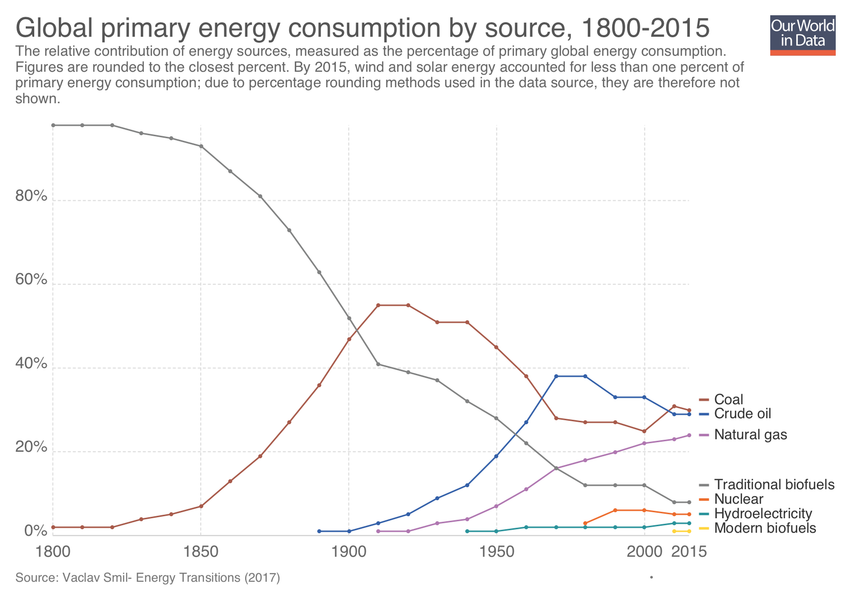
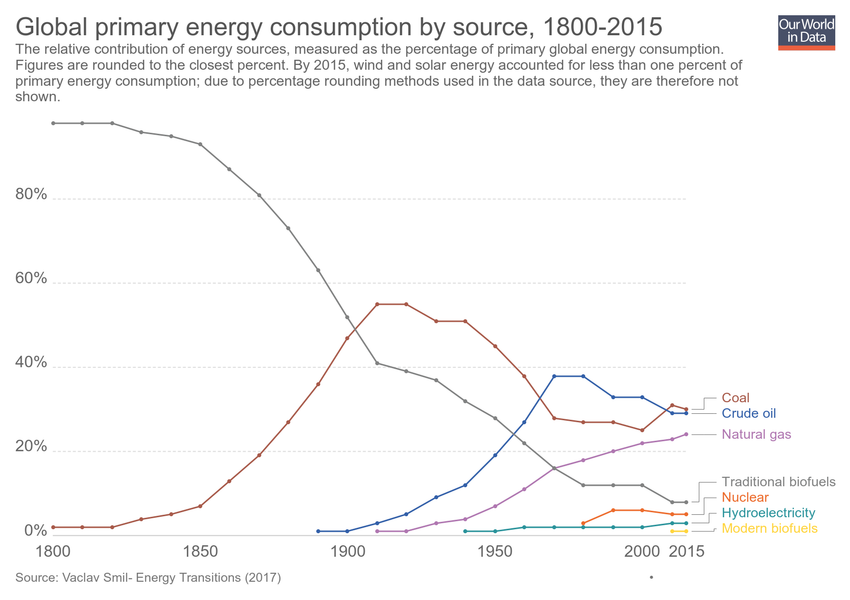
Updating chart global-primary-energy-consumption-by-source-1800-2015

diff --git a/grapher/global-primary-energy-consumption-by-source-1800-2015.html b/grapher/global-primary-energy-consumption-by-source-1800-2015.html
@@ -1,4 +1,4 @@
-<!doctype html><html><head><meta name="viewport" content="width=device-width, initial-scale=1" /><title>Global primary energy consumption by source, 1800-2015 - Our World in Data</title><meta name="description" content="The relative contribution of energy sources, measured as the percentage of primary global energy consumption. Figures are rounded to the closest percent. By 2015, wind and solar energy accounted for less than one percent of primary energy consumption; due to percentage rounding methods used in the data source, they are therefore not shown." /><link rel="canonical" href="https://ourworldindata.org/grapher/global-primary-energy-consumption-by-source-1800-2015" /><meta property="fb:app_id" content="1149943818390250" /><meta property="og:url" content="https://ourworldindata.org/grapher/global-primary-energy-consumption-by-source-1800-2015" /><meta property="og:title" content="Global primary energy consumption by source, 1800-2015" /><meta property="og:description" content="The relative contribution of energy sources, measured as the percentage of primary global energy consumption. Figures are rounded to the closest percent. By 2015, wind and solar energy accounted for less than one percent of primary energy consumption; due to percentage rounding methods used in the data source, they are therefore not shown." /><meta property="og:image" content="https://ourworldindata.org/grapher/exports/global-primary-energy-consumption-by-source-1800-2015.png?v=1" /><meta property="og:image:width" content="850" /><meta property="og:image:height" content="600" /><meta property="og:site_name" content="Our World in Data" /><meta name="twitter:card" content="summary_large_image" /><meta name="twitter:site" content="@OurWorldInData" /><meta name="twitter:creator" content="@OurWorldInData" /><meta name="twitter:title" content="Global primary energy consumption by source, 1800-2015" /><meta name="twitter:description" content="The relative contribution of energy sources, measured as the percentage of primary global energy consumption. Figures are rounded to the closest percent. By 2015, wind and solar energy accounted for less than one percent of primary energy consumption; due to percentage rounding methods used in the data source, they are therefore not shown." /><meta name="twitter:image" content="https://ourworldindata.org/grapher/exports/global-primary-energy-consumption-by-source-1800-2015.png?v=1" /><style>
+<!doctype html><html><head><meta name="viewport" content="width=device-width, initial-scale=1" /><title>Global primary energy consumption by source, 1800-2015 - Our World in Data</title><meta name="description" content="The relative contribution of energy sources, measured as the percentage of primary global energy consumption. Figures are rounded to the closest percent. By 2015, wind and solar energy accounted for less than one percent of primary energy consumption; due to percentage rounding methods used in the data source, they are therefore not shown." /><link rel="canonical" href="https://ourworldindata.org/grapher/global-primary-energy-consumption-by-source-1800-2015" /><meta property="fb:app_id" content="1149943818390250" /><meta property="og:url" content="https://ourworldindata.org/grapher/global-primary-energy-consumption-by-source-1800-2015" /><meta property="og:title" content="Global primary energy consumption by source, 1800-2015" /><meta property="og:description" content="The relative contribution of energy sources, measured as the percentage of primary global energy consumption. Figures are rounded to the closest percent. By 2015, wind and solar energy accounted for less than one percent of primary energy consumption; due to percentage rounding methods used in the data source, they are therefore not shown." /><meta property="og:image" content="https://ourworldindata.org/grapher/exports/global-primary-energy-consumption-by-source-1800-2015.png?v=2" /><meta property="og:image:width" content="850" /><meta property="og:image:height" content="600" /><meta property="og:site_name" content="Our World in Data" /><meta name="twitter:card" content="summary_large_image" /><meta name="twitter:site" content="@OurWorldInData" /><meta name="twitter:creator" content="@OurWorldInData" /><meta name="twitter:title" content="Global primary energy consumption by source, 1800-2015" /><meta name="twitter:description" content="The relative contribution of energy sources, measured as the percentage of primary global energy consumption. Figures are rounded to the closest percent. By 2015, wind and solar energy accounted for less than one percent of primary energy consumption; due to percentage rounding methods used in the data source, they are therefore not shown." /><meta name="twitter:image" content="https://ourworldindata.org/grapher/exports/global-primary-energy-consumption-by-source-1800-2015.png?v=2" /><style>
         html, body {
             height: 100%;
             margin: 0;
@@ -20,8 +20,8 @@
         }
     </style><noscript><style>
                     figure { display: none !important; }
-                </style></noscript><link rel="stylesheet" href="https://ourworldindata.org/grapher/assets/commons.bundle.ffce8fc1a6aa7e5a53c7.css" /><link rel="preload" href="/grapher/data/variables/2022+2023+2024+2025+2026+2027+2028+2029.json?v=1" as="fetch" crossorigin /></head><body class="singleChart"><figure data-grapher-src="/grapher/global-primary-energy-consumption-by-source-1800-2015"></figure><noscript id="fallback"><img src="/grapher/exports/global-primary-energy-consumption-by-source-1800-2015.svg" /><p>Interactive visualization requires JavaScript</p></noscript><script src="https://cdn.polyfill.io/v2/polyfill.min.js?features=es6,fetch"></script><script src="https://ourworldindata.org/grapher/assets/commons.bundle.ffce8fc1a6aa7e5a53c7.js"></script><script src="https://ourworldindata.org/grapher/assets/charts.bundle.dcf65b68eddaba4c6a58.js"></script><script>
-        var jsonConfig = {"id":695,"map":{"projection":"World","targetYear":1980,"variableId":2022,"timeTolerance":1,"legendStepSize":20,"baseColorScheme":"BuGn","colorSchemeInvert":false,"colorSchemeLabels":[],"colorSchemeValues":[],"defaultProjection":"World","legendDescription":"","customColorsActive":false,"customNumericColors":[],"customCategoryColors":{},"customCategoryLabels":{},"customHiddenCategories":{}},"tab":"chart","note":"","slug":"global-primary-energy-consumption-by-source-1800-2015","type":"LineChart","title":"Global primary energy consumption by source, 1800-2015","xAxis":{"scaleType":"linear"},"yAxis":{"min":0,"suffix":"%","scaleType":"linear","labelDistance":-10},"version":1,"subtitle":"The relative contribution of energy sources, measured as the percentage of primary global energy consumption. Figures are rounded to the closest percent. By 2015, wind and solar energy accounted for less than one percent of primary energy consumption; due to percentage rounding methods used in the data source, they are therefore not shown.","hasMapTab":false,"originUrl":"","stackMode":null,"dimensions":[{"id":10935,"order":0,"chartId":695,"display":{"name":"Coal","unit":"%","tolerance":5,"isProjection":false},"property":"y","targetYear":null,"variableId":2022},{"id":10936,"order":1,"chartId":695,"display":{"name":"Crude oil","unit":"%","tolerance":5,"isProjection":false},"property":"y","targetYear":null,"variableId":2023},{"id":10937,"order":2,"chartId":695,"display":{"name":"Natural gas","unit":"%","tolerance":5,"isProjection":false},"property":"y","targetYear":null,"variableId":2024},{"id":10938,"order":3,"chartId":695,"display":{"name":"Hydroelectricity","unit":"%","tolerance":5,"isProjection":false},"property":"y","targetYear":null,"variableId":2025},{"id":10939,"order":4,"chartId":695,"display":{"name":"Nuclear","unit":"%","tolerance":5,"isProjection":false},"property":"y","targetYear":null,"variableId":2026},{"id":10940,"order":5,"chartId":695,"display":{"name":"Wind and solar","unit":"%","tolerance":5,"isProjection":false},"property":"y","targetYear":null,"variableId":2027},{"id":10941,"order":6,"chartId":695,"display":{"name":"Modern biofuels","unit":"%","tolerance":5,"isProjection":false},"property":"y","targetYear":null,"variableId":2028},{"id":10942,"order":7,"chartId":695,"display":{"name":"Traditional biofuels","unit":"%","tolerance":5,"isProjection":false},"property":"y","targetYear":null,"variableId":2029}],"entityType":"country","hideLegend":false,"sourceDesc":"Vaclav Smil- Energy Transitions (2017)","hasChartTab":true,"isPublished":true,"selectedData":[{"color":"#a85a4a","index":0,"entityId":355},{"color":"#3360a9","index":1,"entityId":355},{"color":"#b077b1","index":2,"entityId":355},{"color":"#2a939b","index":3,"entityId":355},{"color":"#ed6c2d","index":4,"entityId":355},{"index":5,"entityId":355},{"color":"#ffd53e","index":6,"entityId":355},{"color":"#818282","index":7,"entityId":355}],"internalNotes":"","addCountryMode":"add-country","hideRelativeToggle":false,"hideTitleAnnotation":true};
+                </style></noscript><link rel="stylesheet" href="https://ourworldindata.org/grapher/assets/commons.bundle.ffce8fc1a6aa7e5a53c7.css" /><link rel="preload" href="/grapher/data/variables/2022+2023+2024+2025+2026+2027+2028+2029.json?v=2" as="fetch" crossorigin /></head><body class="singleChart"><figure data-grapher-src="/grapher/global-primary-energy-consumption-by-source-1800-2015"></figure><noscript id="fallback"><img src="/grapher/exports/global-primary-energy-consumption-by-source-1800-2015.svg" /><p>Interactive visualization requires JavaScript</p></noscript><script src="https://cdn.polyfill.io/v2/polyfill.min.js?features=es6,fetch"></script><script src="https://ourworldindata.org/grapher/assets/commons.bundle.ffce8fc1a6aa7e5a53c7.js"></script><script src="https://ourworldindata.org/grapher/assets/charts.bundle.dcf65b68eddaba4c6a58.js"></script><script>
+        var jsonConfig = {"id":695,"map":{"projection":"World","targetYear":1980,"variableId":2022,"timeTolerance":1,"baseColorScheme":"BuGn","colorSchemeInvert":false,"colorSchemeLabels":[],"colorSchemeValues":[],"legendDescription":"","customColorsActive":false,"colorSchemeMinValue":0,"customNumericColors":[],"customCategoryColors":{},"customCategoryLabels":{},"customHiddenCategories":{}},"tab":"chart","note":"","slug":"global-primary-energy-consumption-by-source-1800-2015","type":"LineChart","title":"Global primary energy consumption by source, 1800-2015","xAxis":{"scaleType":"linear"},"yAxis":{"min":0,"suffix":"%","scaleType":"linear","labelDistance":-10},"version":2,"subtitle":"The relative contribution of energy sources, measured as the percentage of primary global energy consumption. Figures are rounded to the closest percent. By 2015, wind and solar energy accounted for less than one percent of primary energy consumption; due to percentage rounding methods used in the data source, they are therefore not shown.","hasMapTab":false,"originUrl":"","stackMode":null,"dimensions":[{"display":{"name":"Coal","unit":"%","tolerance":5,"isProjection":false},"property":"y","variableId":2022},{"display":{"name":"Crude oil","unit":"%","tolerance":5,"isProjection":false},"property":"y","variableId":2023},{"display":{"name":"Natural gas","unit":"%","tolerance":5,"isProjection":false},"property":"y","variableId":2024},{"display":{"name":"Hydroelectricity","unit":"%","tolerance":5,"isProjection":false},"property":"y","variableId":2025},{"display":{"name":"Nuclear","unit":"%","tolerance":5,"isProjection":false},"property":"y","variableId":2026},{"display":{"name":"Wind and solar","unit":"%","tolerance":5,"isProjection":false},"property":"y","variableId":2027},{"display":{"name":"Modern biofuels","unit":"%","tolerance":5,"isProjection":false},"property":"y","variableId":2028},{"display":{"name":"Traditional biofuels","unit":"%","tolerance":5,"isProjection":false},"property":"y","variableId":2029}],"entityType":"country","hideLegend":false,"sourceDesc":"Vaclav Smil- Energy Transitions (2017)","hasChartTab":true,"isPublished":true,"selectedData":[{"color":"#a85a4a","index":0,"entityId":355},{"color":"#3360a9","index":1,"entityId":355},{"color":"#b077b1","index":2,"entityId":355},{"color":"#2a939b","index":3,"entityId":355},{"color":"#ed6c2d","index":4,"entityId":355},{"index":5,"entityId":355},{"color":"#ffd53e","index":6,"entityId":355},{"color":"#818282","index":7,"entityId":355}],"internalNotes":"","addCountryMode":"add-country","hideRelativeToggle":false,"hideTitleAnnotation":true};
         var figure = document.getElementsByTagName("figure")[0];
         try {
             window.App = {};
